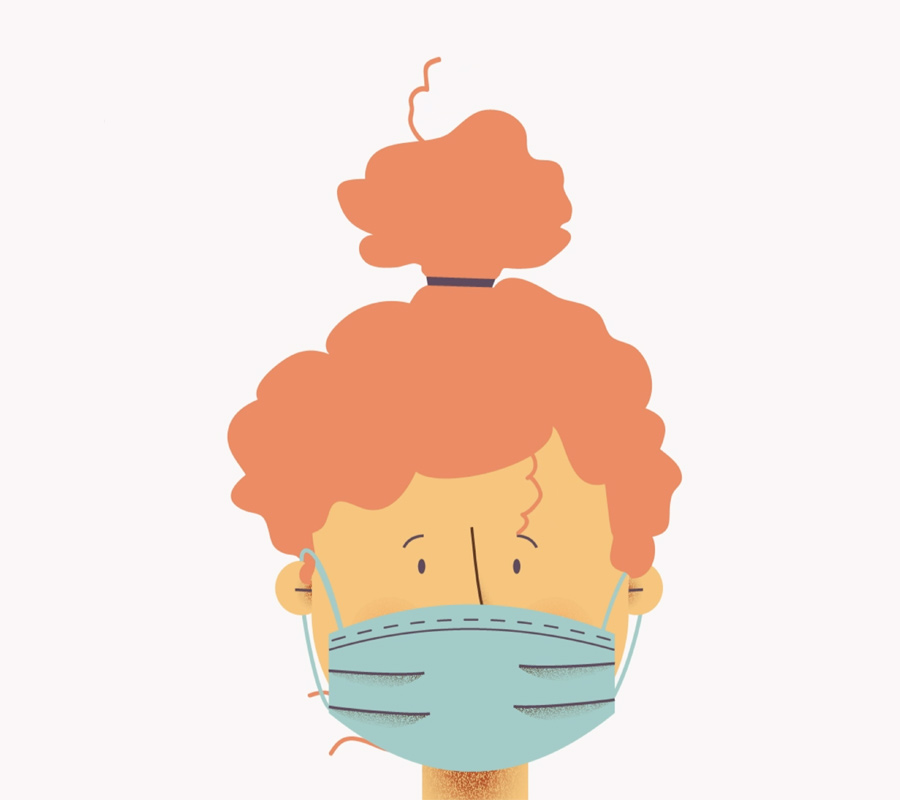
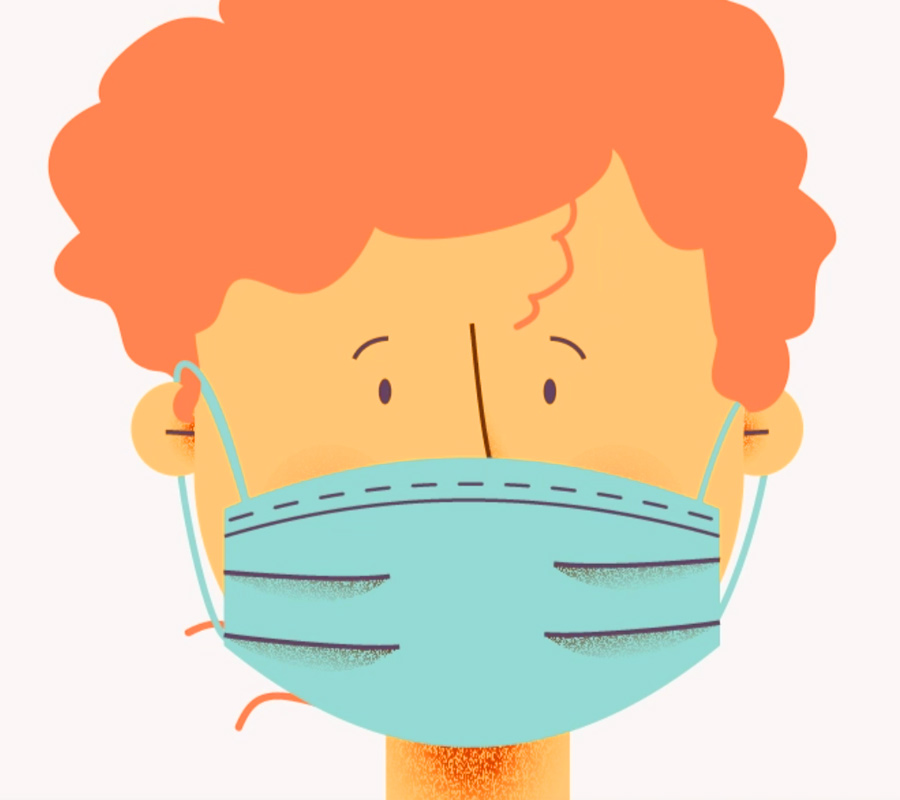
Add the correct project pic

diff --git a/case-9.html b/case-9.html
@@ -9,11 +9,13 @@ desc: "An inforgraphic and informational video on How to Use a Mask During Covid
 </div>
 
 <div role="main">
-  {% pattern sections/short-description text="This a informative step by step video, created for NIVA Inc. on How to Use a Mask During Covid-19 Crisis." %}
-  <iframe src="https://player.vimeo.com/video/426522216" width="640" height="564" frameborder="0" allow="autoplay; fullscreen" allowfullscreen></iframe>
+  {% pattern sections/short-description text="An informative, step by step, video created for NIVA Inc. on How to Use a Mask During Covid-19 Crisis." %}
+  <div>
+    <iframe src="https://player.vimeo.com/video/426522216" width="640" height="564" frameborder="0" allow="autoplay; fullscreen" allowfullscreen></iframe>
+  </div>
   {% pattern sections/project-description text="<h2 class='push-0 tera'>Audience:</h2> <p class='push-0 kilo'> Anyone seeking a clear overview on this subject and anyone who is a visual learner.</p><br><br>
 
-  <h2 class='push-0 tera'>Rationale:</h2> <p class='push-0 kilo'> With so much information on the internet on what to do and what not to do during Covid-19, the goal was to create a informative video that was easy to uderstand and very tranquil. </p>" %}<br><br>
+  <h2 class='push-0 tera'>Rationale:</h2> <p class='push-0 kilo'> With so much information on the internet on what to do and what not to do during Covid-19, the goal was to create a informative video that was easy to uderstand and very tranquil. </p>" %}
 
   {% pattern banners/titles-for-sections heading="STYLEFRAMES" %}
   <div class="grid gutter push-2">

diff --git a/projects.html b/projects.html
@@ -36,7 +36,7 @@ layout: default
   </div>
 
   <div id="Covid-19-mask" tabindex="0" class="unit xs-1 s-1-2 m-1-2 l-1-3">
-    {% pattern cards/project-cards text="NIVA inc." url="/images/cards/take-one-step.jpg" baseurl="/case-9/" %}
+    {% pattern cards/project-cards text="NIVA inc." url="/images/cards/covid.jpg" baseurl="/case-9/" %}
   </div>
 
 </section>
